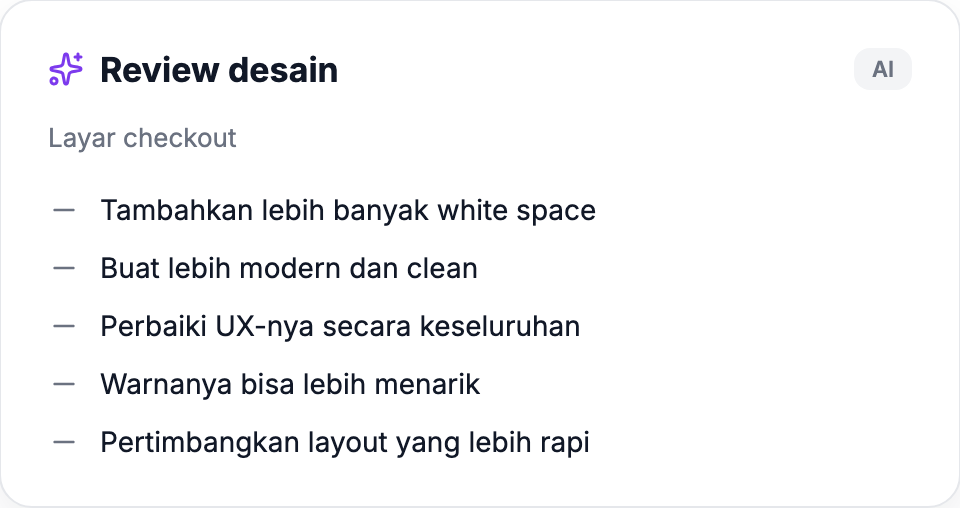
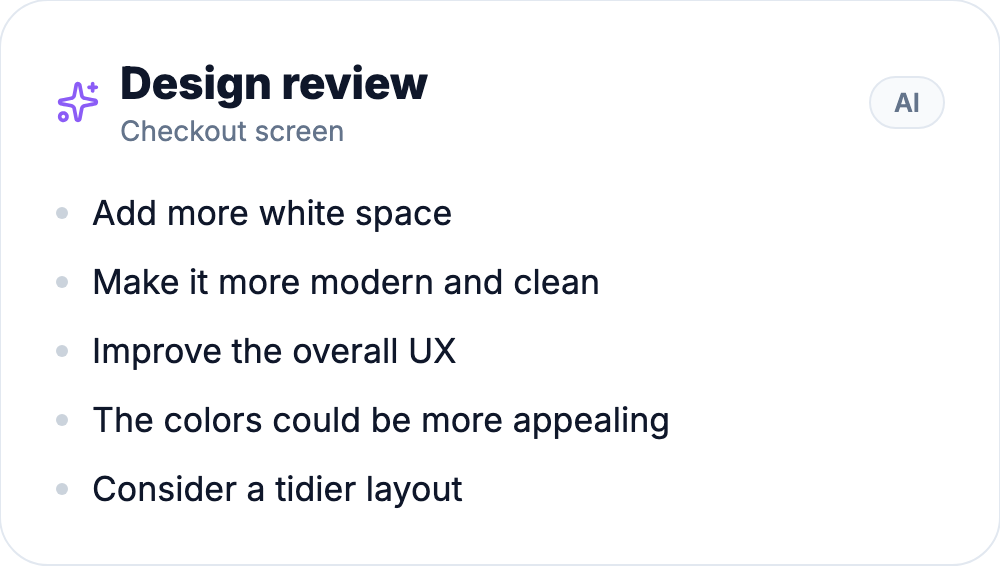
docs: english review gallery pair + deploy guide
Rebuild the review before/after showcase in English (same premium
style): a shallow "Design review" critique vs a structured heuristic_eval
report with severity chips and screen_id evidence chips. The README alt
text already matched. Add DEPLOY.md covering Supabase (migrations),
the MCP server (Cloudflare secrets + deploy), and the site (Vercel env),
plus DNS and a checklist.

diff --git a/DEPLOY.md b/DEPLOY.md
@@ -1,0 +1,75 @@
+# Deploying ryux
+
+Three pieces ship independently: the Supabase database, the MCP server (Cloudflare Workers), and the
+website (Vercel). None of them need secrets in the repo. The `screen_id`-backed content only appears
+once Supabase has `published` rows; without env, the MCP falls back to the `@ryux/core` sample data.
+
+## Prerequisites
+
+- Node 20+ and pnpm, `pnpm install` done.
+- Supabase CLI, logged in to the account that owns the cloud project.
+- Wrangler (bundled), logged in to Cloudflare.
+- Vercel CLI or the Vercel dashboard.
+
+## 1. Supabase (database)
+
+Link the local repo to the cloud project, push the migrations, and seed:
+
+```bash
+supabase link --project-ref <your-project-ref>
+supabase db push          # applies supabase/migrations/* (production write)
+# optional: load seed data
+psql "$SUPABASE_DB_URL" -f supabase/seed.sql
+```
+
+RLS is on for every table from the first migration. Public/anon reads only see `published` content;
+the `waitlist` table accepts inserts but no public reads.
+
+Grab two values from Project Settings > API for the next steps:
+
+- `SUPABASE_URL` (the project URL)
+- `SUPABASE_ANON_KEY` (the anon/publishable key, safe to expose)
+
+## 2. MCP server (Cloudflare Workers)
+
+The Worker reads `SUPABASE_URL` and `SUPABASE_ANON_KEY` from its environment. Set them as secrets,
+then deploy:
+
+```bash
+cd apps/mcp
+wrangler secret put SUPABASE_URL
+wrangler secret put SUPABASE_ANON_KEY
+cd ../.. && pnpm deploy:mcp
+```
+
+Local dev uses `apps/mcp/.dev.vars` (gitignored) with the same two keys pointed at your local
+Supabase. The public endpoint is `https://mcp.ryux.design/mcp` (Streamable HTTP), so connect through
+an MCP client, not a browser.
+
+## 3. Website (Vercel)
+
+Import the repo in Vercel and set the project root to `apps/web` (framework preset: Next.js). Add two
+environment variables (Production and Preview):
+
+- `SUPABASE_URL`
+- `SUPABASE_ANON_KEY`
+
+These are used server-side by the waitlist route (`/api/waitlist`), which inserts into `waitlist`
+via the anon key + the RLS insert policy. Without them the form returns a clear "not wired up yet"
+message instead of pretending to succeed. Deploy from the dashboard or:
+
+```bash
+cd apps/web && vercel --prod
+```
+
+## DNS
+
+- `ryux.design` -> the Vercel project.
+- `mcp.ryux.design` -> the Cloudflare Worker route.
+
+## Checklist
+
+- [ ] Migrations applied to the cloud project; RLS verified.
+- [ ] MCP secrets set; `pnpm deploy:mcp` succeeds; a tool call returns `published` data.
+- [ ] Web env vars set; the waitlist form saves a row.
+- [ ] Both domains resolve.
